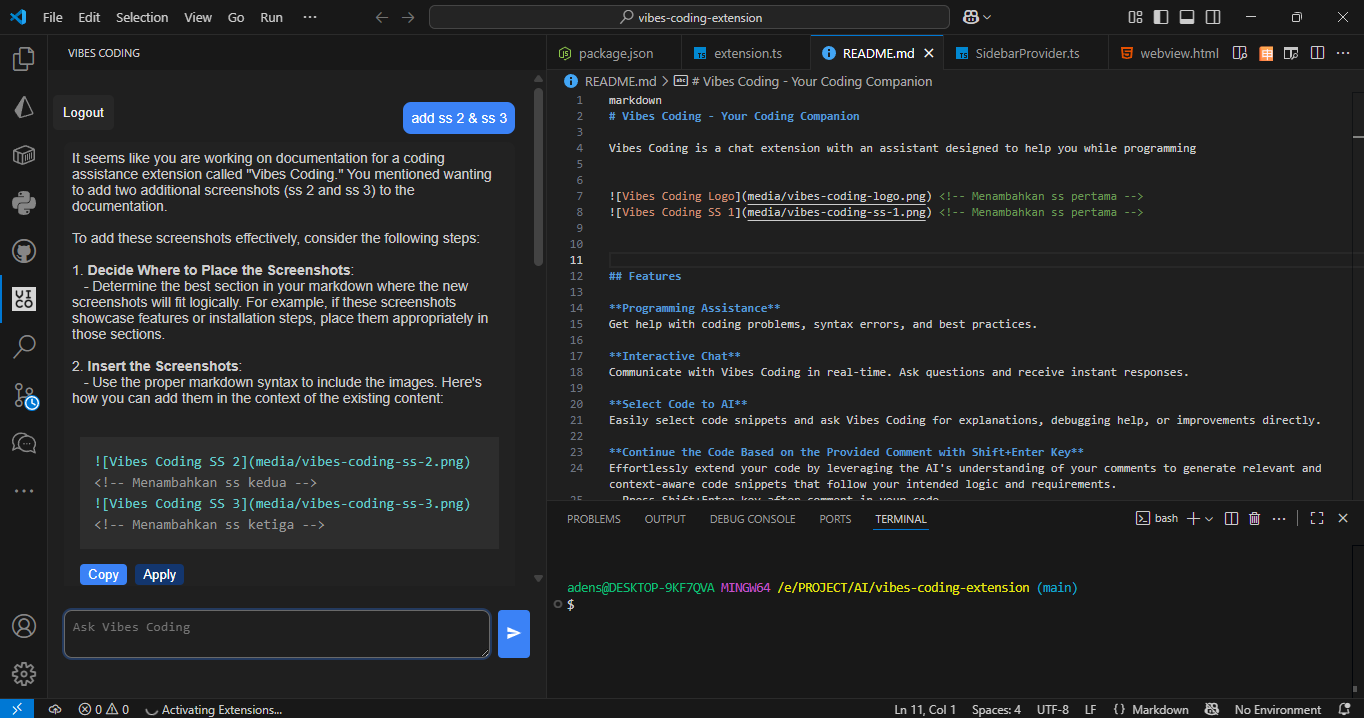
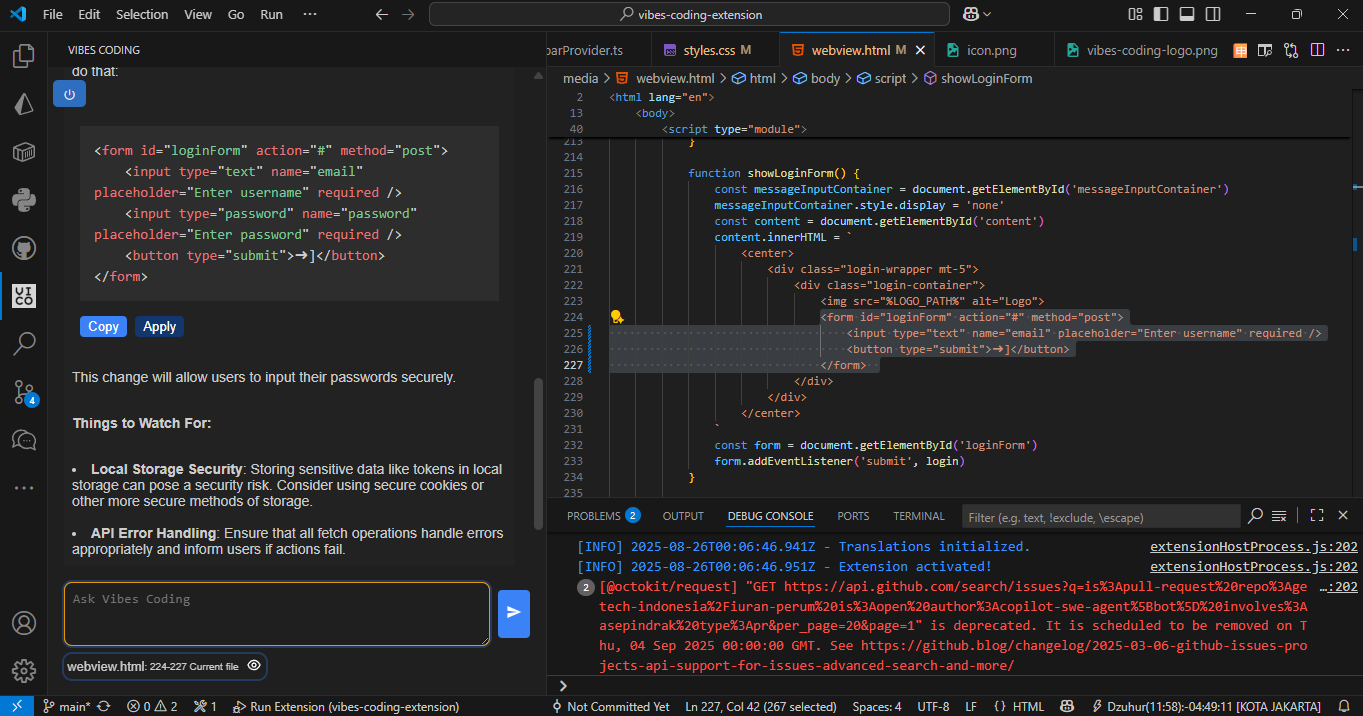
fix: update button styles and text in login and logout functionality

diff --git a/media/webview.html b/media/webview.html
@@ -222,9 +222,9 @@
                             <div class="login-container">
                                 <img src="%LOGO_PATH%" alt="Logo">
                                 <form id="loginForm" action="#" method="post">
-                                    <input type="text" name="email" placeholder="Masukkan email" required />
-                                    <button type="submit">Login</button>
-                                </form>
+                                    <input type="text" name="email" placeholder="Enter username" required />
+                                    <button type="submit">➜]</button>
+                                </form>     
                             </div>
                         </div>
                     </center>
@@ -346,7 +346,7 @@
                     buttonContainer.className = 'p-2'
                     const logoutButton = document.createElement('button')
                     logoutButton.className = 'logout-button'
-                    logoutButton.textContent = 'Logout'
+                    logoutButton.textContent = '⏻'
                     logoutButton.onclick = logout
                     buttonContainer.appendChild(logoutButton)
                     content.appendChild(buttonContainer)
@@ -363,7 +363,7 @@
                 buttonContainer.className = 'p-2'
                 const logoutButton = document.createElement('button')
                 logoutButton.className = 'logout-button'
-                logoutButton.textContent = 'Logout'
+                logoutButton.textContent = '⏻'
                 logoutButton.onclick = logout
                 buttonContainer.appendChild(logoutButton)
                 content.appendChild(buttonContainer)

diff --git a/media/styles.css b/media/styles.css
@@ -50,7 +50,7 @@ html {
 .login-container button {
     width: 100%;
     padding: 0.75rem;
-    background-color: #911313;
+    background-color: #2e6ebe;
     color: white;
     border: none;
     border-radius: 4px;
@@ -59,7 +59,7 @@ html {
 }
 
 .login-container button:hover {
-    background-color: #c44b4b;
+    background-color: #508fdb;
 }
 
 .login-container a {
@@ -106,16 +106,15 @@ iframe {
 }
 
 .logout-button {
-    margin-top: 20px;
-    padding: 10px;
-    background-color: rgb(39, 39, 39);
+    padding: 5px 10px;
+    background-color: #2e6ebe;
     color: rgb(238, 238, 238);
     border: none;
     cursor: pointer;
     border-radius: 5px;
     position: absolute;
     left: 5px;
-    top: 5px;
+    top: 13px;
     z-index: 1000;
     text-decoration: none;
 }

diff --git a/README.md b/README.md
@@ -57,6 +57,9 @@ This extension is licensed under the MIT License. See the LICENSE file for detai
 
 
 ## Release Notes
+### 1.0.1
+- **fix**: update button styles and text in login and logout functionality
+
 ### 1.0.0
 - **Initial Release**: Vibes Coding.
 
